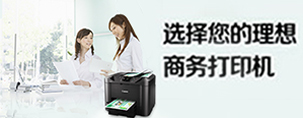
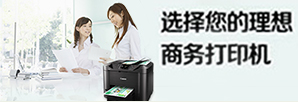
170414周结束

diff --git a/购机送花PC/style/main.min.css b/购机送花PC/style/main.min.css
@@ -1,1 +1,1 @@
-html,body,ul,ol,li,dl,dt,dd{padding:0;margin:0;}ul,ol{list-style:none;}*{box-sizing:border-box;}html,body{width:100%;height:100%;font-family:'Miscrosoft Yahei','微软雅黑';font-size:14px;color:#333;}.wrapper{width:980px;height:auto;margin:0 auto;}.canon-header{background-color:#fff;height:56px;width:100%;position:fixed;z-index:100;top:0;left:0;}.canon-header>div{width:980px;margin:0 auto;}.canon-header>div a{float:left;padding-left:15px;padding-top:12px;}.canon-header>div a img{width:100px;border:0;}.canon-header>div>img{float:right;padding-right:15px;padding-top:15px;width:144px;}.bg{position:absolute;width:100%;height:auto;top:0;left:0;background-image:url('../img/main/bg.png');background-repeat:no-repeat;background-position:center top;}.bg1{background-color:#ffe6e6;height:680px;width:100%;background-image:url(../img/main/bg1.png);background-position:center 445px;background-repeat:repeat-x;}.bg2{background-color:#ffe6e6;height:70px;width:100%;margin-top:310px;background-image:url(../img/main/bg1.png);background-position:center;background-repeat:repeat-x;}.bg3{background-color:#e6e2e1;height:512px;width:100%;margin-top:897px;background-image:url(../img/main/bg1.png);background-position:center;background-repeat:repeat-x;}.bg4{background-color:#ffe6e6;height:515px;width:100%;margin-top:440px;background-image:url(../img/main/bg1.png);background-position:center;background-repeat:repeat-x;}.KV{width:100%;height:690px;margin-top:56px;background-image:url('../img/main/KV.jpg');background-repeat:no-repeat;background-position:center top;}.movie{width:271px;height:119px;margin:713px auto 0 auto;background-image:url('../img/main/movie.png');background-repeat:no-repeat;background-position:center;}.player-frame{width:1190px;height:504px;margin:-570px auto 0 auto;position:relative;z-index:20;background-image:url('../img/main/plaerframe.png');background-repeat:no-repeat;background-position:center;text-align:center;}.player-frame img{width:768px;margin-top:34px;margin-left:8px;cursor:pointer;}.player-frame img.play{width:initial;position:absolute;top:50%;left:50%;margin-top:-64px;margin-left:-70px;}.player-frame img.play:hover{animation:kf-btnplay 1500ms ease infinite;}.word1{width:368px;height:162px;margin:630px auto 0 auto;background-image:url('../img/main/word1.png');background-repeat:no-repeat;background-position:center;}.book{width:162px;height:76px;margin:20px auto 0 auto;background-image:url('../img/main/book.png');background-repeat:no-repeat;background-position:center;}.word2{width:604px;height:292px;margin:100px auto 0 auto;background-image:url('../img/main/word2.png');background-repeat:no-repeat;background-position:center;}.qr{width:170px;height:170px;margin:10px auto 0 auto;background-image:url('../img/main/qr.png');background-repeat:no-repeat;background-position:center;}.word3{width:539px;height:194px;margin:10px auto 0 auto;background-image:url('../img/main/word3.png');background-repeat:no-repeat;background-position:center;}.btn-rule{margin-top:22px;text-align:center;}.product1{margin-top:20px;text-align:center;}.product1 img.first{margin-right:280px;}.product2{margin-top:27px;text-align:center;}.product3{margin-top:27px;text-align:center;}.product3 img.first{margin-right:280px;}.store{width:271px;height:117px;margin:50px auto 0 auto;background-image:url('../img/main/store.png');background-repeat:no-repeat;background-position:center;}.store-link{margin-top:20px;text-align:center;}.store-link a{margin:0 10px;}.store-link img{border:0;}.more{width:544px;height:120px;margin:90px auto 0 auto;background-image:url('../img/main/more.png');background-repeat:no-repeat;background-position:center;}.more-link{margin-top:20px;text-align:center;}.more-link a{margin:0 10px;}.more-link img{border:0;}.copyright{margin-top:-200px;height:56px;line-height:56px;background-color:#e6e2e2;color:#333;text-align:center;}.player-box{position:fixed;z-index:200;width:100%;height:100vh;background-color:rgba(0,0,0,.8);top:0;display:none;}.player-box>div{position:relative;top:50%;left:50%;margin-top:-300px;margin-left:-400px;width:800px;height:600px;padding:40px;background-color:#fff;}.player-box object{width:100%;height:100%;}.player-box .close{position:absolute;right:10px;top:10px;animation:kf-close-out 500ms ease;cursor:pointer;}.player-box .close:hover{animation:kf-close-in 500ms ease;}.player-box .tips{position:absolute;bottom:20px;left:40px;}@keyframes kf-close-in{from{transform:rotate(0deg);}to{transform:rotate(360deg);}}@keyframes kf-close-out{from{transform:rotate(360deg);}to{transform:rotate(0deg);}}@keyframes kf-btnplay{from{transform:scale(1);opacity:1;}to{transform:scale(1.2);opacity:0;}}
+html,body,ul,ol,li,dl,dt,dd{padding:0;margin:0;}ul,ol{list-style:none;}*{box-sizing:border-box;}html,body{width:100%;height:100%;font-family:'Miscrosoft Yahei','微软雅黑';font-size:14px;color:#333;}.wrapper{width:980px;height:auto;margin:0 auto;}.canon-header{background-color:#fff;height:56px;width:100%;position:fixed;z-index:100;top:0;left:0;}.canon-header>div{width:980px;margin:0 auto;}.canon-header>div a{float:left;padding-left:15px;padding-top:12px;}.canon-header>div a img{width:100px;border:0;}.canon-header>div>img{float:right;padding-right:15px;padding-top:15px;width:144px;}.bg{position:absolute;width:100%;height:auto;top:0;left:0;background-image:url('../img/main/bg.png');background-repeat:no-repeat;background-position:center top;}.bg1{background-color:#ffe6e6;height:680px;width:100%;background-image:url(../img/main/bg1.png);background-position:center 445px;background-repeat:repeat-x;}.bg2{background-color:#ffe6e6;height:70px;width:100%;margin-top:310px;background-image:url(../img/main/bg1.png);background-position:center;background-repeat:repeat-x;}.bg3{background-color:#e6e2e1;height:512px;width:100%;margin-top:897px;background-image:url(../img/main/bg1.png);background-position:center;background-repeat:repeat-x;}.bg4{background-color:#ffe6e6;height:515px;width:100%;margin-top:440px;background-image:url(../img/main/bg1.png);background-position:center;background-repeat:repeat-x;}.KV{width:100%;height:690px;margin-top:56px;background-image:url('../img/main/KV.jpg');background-repeat:no-repeat;background-position:center top;}.movie{width:271px;height:119px;margin:713px auto 0 auto;background-image:url('../img/main/movie.png');background-repeat:no-repeat;background-position:center;}.player-frame{width:1190px;height:504px;margin:-570px auto 0 auto;position:relative;z-index:20;background-image:url('../img/main/plaerframe.png');background-repeat:no-repeat;background-position:center;text-align:center;}.player-frame img{width:768px;margin-top:34px;margin-left:8px;cursor:pointer;}.player-frame img.play{width:initial;position:absolute;top:50%;left:50%;margin-top:-64px;margin-left:-70px;}.player-frame img.play:hover{animation:kf-btnplay 1500ms ease infinite;}.word1{width:368px;height:162px;margin:630px auto 0 auto;background-image:url('../img/main/word1.png');background-repeat:no-repeat;background-position:center;}.book{width:162px;height:76px;margin:20px auto 0 auto;background-image:url('../img/main/book.png');background-repeat:no-repeat;background-position:center;}.word2{width:604px;height:292px;margin:100px auto 0 auto;background-image:url('../img/main/word2.png');background-repeat:no-repeat;background-position:center;}.qr{width:170px;height:170px;margin:10px auto 0 auto;background-image:url('../img/main/qr.png');background-repeat:no-repeat;background-position:center;}.word3{width:539px;height:194px;margin:10px auto 0 auto;background-image:url('../img/main/word3.png');background-repeat:no-repeat;background-position:center;}.btn-rule{margin-top:22px;text-align:center;}.btn-rule a{border:0;}.product1{margin-top:20px;text-align:center;}.product1 img.first{margin-right:280px;}.product2{margin-top:27px;text-align:center;}.product3{margin-top:27px;text-align:center;}.product3 img.first{margin-right:280px;}.store{width:271px;height:117px;margin:50px auto 0 auto;background-image:url('../img/main/store.png');background-repeat:no-repeat;background-position:center;}.store-link{margin-top:20px;text-align:center;}.store-link a{margin:0 10px;}.store-link img{border:0;}.more{width:544px;height:120px;margin:90px auto 0 auto;background-image:url('../img/main/more.png');background-repeat:no-repeat;background-position:center;}.more-link{margin-top:20px;text-align:center;}.more-link a{margin:0 10px;}.more-link img{border:0;}.copyright{margin-top:-200px;height:56px;line-height:56px;background-color:#e6e2e2;color:#333;text-align:center;}.player-box{position:fixed;z-index:200;width:100%;height:100vh;background-color:rgba(0,0,0,.8);top:0;display:none;}.player-box>div{position:relative;top:50%;left:50%;margin-top:-300px;margin-left:-400px;width:800px;height:600px;padding:40px;background-color:#fff;}.player-box object{width:100%;height:100%;}.player-box .close{position:absolute;right:10px;top:10px;animation:kf-close-out 500ms ease;cursor:pointer;}.player-box .close:hover{animation:kf-close-in 500ms ease;}.player-box .tips{position:absolute;bottom:20px;left:40px;}@keyframes kf-close-in{from{transform:rotate(0deg);}to{transform:rotate(360deg);}}@keyframes kf-close-out{from{transform:rotate(360deg);}to{transform:rotate(0deg);}}@keyframes kf-btnplay{from{transform:scale(1);opacity:1;}to{transform:scale(1.2);opacity:0;}}

diff --git a/综合页入口PC/style/main.min.css b/综合页入口PC/style/main.min.css
@@ -1,1 +1,1 @@
-html,body{padding:0;margin:0;width:100%;height:100%;font:12px/1.5 '微软雅黑',Arial,Helvetica,SimSun,san-serif;}img{border:0;}.box{width:980px;height:100%;margin:0 auto;}.header{height:80px;padding:0 10px;}.logo{float:left;}.logo img{margin-top:20px;border:0;}.sub-logo{float:right;}.sub-logo img{margin-top:28px;}.banner{height:350px;overflow:hidden;position:relative;}.banner .choice{width:184px;height:170px;position:absolute;right:0;top:0;background-image:url(../img/banner/choice.png);background-size:contain;z-index:5;}.carousel-imgs{position:relative;}.carousel-imgs img{position:absolute;top:0;left:0;display:none;}.carousel-tips{padding:0;margin:0;position:absolute;width:100%;height:75px;bottom:0;list-style:none;z-index:2;}.carousel-tips>li{float:left;width:245px;height:100%;background-position:10px 10px;background-repeat:no-repeat;position:relative;cursor:pointer;}.carousel-tips>li>span{font-size:20px;position:absolute;right:10px;bottom:10px;color:#fff;}.carousel-tips>li>div{height:0;width:100%;overflow:hidden;}.carousel-tips>li>div>div{width:225px;padding:10px 10px 5px 10px;z-index:-1;}.carousel-tips>li>div>div img{width:100%;}.carousel-tips>li .arrow{height:11px;margin-top:-11px;}.carousel-tips>li .tip-mask{height:100%;width:100%;background-color:#000;position:absolute;z-index:3;filter:alpha(opacity=50);-moz-opacity:.5;opacity:.5;display:none;}.tips01{background-color:#10a7ae;background-color:rgba(16,167,174,.9);background-image:url(../img/icon/icon01.png);filter:alpha(opacity=90) \9;}.tips01>div>div{background-color:#10a7ae;}.tips01 .arrow{display:none;}.tips01H{background-color:#10a7ae;background-image:url(../img/icon/icon01.png);}.tips01H>div>div{background-color:#10a7ae;}.tips01H .arrow{background:url(../img/icon/arrow1.png) center no-repeat;}.tips02{background-color:#7b8d42;background-color:rgba(123,141,66,.9);background-image:url(../img/icon/icon02.png);filter:alpha(opacity=90) \9;}.tips02>div>div{background-color:#7b8d42;}.tips02 .arrow{display:none;}.tips02H{background-color:#7b8d42;background-image:url(../img/icon/icon02.png);}.tips02H>div>div{background-color:#7b8d42;}.tips02H .arrow{background:url(../img/icon/arrow2.png) center no-repeat;}.tips03{background-color:#507ea4;background-color:rgba(80,126,164,.9);background-image:url(../img/icon/icon03.png);filter:alpha(opacity=90) \9;}.tips03>div>div{background-color:#507ea4;}.tips03 .arrow{display:none;}.tips03H{background-color:#507ea4;background-image:url(../img/icon/icon03.png);}.tips03H>div>div{background-color:#507ea4;}.tips03H .arrow{background:url(../img/icon/arrow3.png) center no-repeat;}.tips04{background-color:#e09e87;background-color:rgba(224,158,135,.9);background-image:url(../img/icon/icon04.png);filter:alpha(opacity=90) \9;}.tips04>div>div{background-color:#e09e87;}.tips04 .arrow{display:none;}.tips04H{background-color:#e09e87;background-image:url(../img/icon/icon04.png);}.tips04H>div>div{background-color:#e09e87;}.tips04H .arrow{background:url(../img/icon/arrow4.png) center no-repeat;}.nav-banner{margin-top:6px;height:163px;}.nav-banner>div{overflow:hidden;position:relative;}.nav-banner>div .mask{position:absolute;height:100%;width:100%;background-position:10px 10px;background-repeat:no-repeat;}.nav-banner>div .mask>span{font-size:20px;position:absolute;right:10px;bottom:10px;color:#fff;}.nav-banner>div .link-img{padding:10px;}.mask{filter:alpha(opacity=95);}.nav01,.nav02{margin-right:6px;float:left;height:100%;width:275px;}.nav01{background-color:#deb700;}.nav01>.mask{background-color:#deb700;background-color:rgba(222,183,0,.95);background-image:url(../img/icon/icon05.png);}.nav02{background-color:#774ca5;}.nav02>.mask{background-color:#774ca5;background-color:rgba(125,84,168,.95);background-image:url(../img/icon/icon06.png);}.nav03{float:right;width:418px;height:73px;background-color:#0c96c4;}.nav03>.mask{background-color:#0c96c4;background-color:rgba(13,153,203,.95);background-image:url(../img/icon/icon07.png);}.nav04{margin-top:6px;float:right;width:418px;height:84px;background-color:#ee7d02;}.nav04>.mask{background-color:#ee7d02;background-color:rgba(237,124,1,.95);background-image:url(../img/icon/icon08.png);}.footer{text-align:center;height:80px;line-height:80px;clear:both;}
+html,body{padding:0;margin:0;width:100%;height:100%;font:12px/1.5 '微软雅黑',Arial,Helvetica,SimSun,san-serif;}img{border:0;}.box{width:980px;height:100%;margin:0 auto;}.header{height:80px;padding:0 10px;}.logo{float:left;}.logo img{margin-top:20px;border:0;}.sub-logo{float:right;}.sub-logo img{margin-top:28px;}.banner{height:350px;overflow:hidden;position:relative;}.banner .choice{width:184px;height:170px;position:absolute;right:0;top:0;background-image:url(../img/banner/choice.png);background-size:contain;z-index:5;}.carousel-imgs{position:relative;}.carousel-imgs img{position:absolute;top:0;left:0;display:none;}.carousel-tips{padding:0;margin:0;position:absolute;width:100%;height:75px;bottom:0;list-style:none;z-index:2;}.carousel-tips>li{float:left;width:245px;height:100%;background-position:10px 10px;background-repeat:no-repeat;position:relative;cursor:pointer;}.carousel-tips>li>span{font-size:20px;position:absolute;right:10px;bottom:10px;color:#fff;}.carousel-tips>li>div{height:0;width:100%;overflow:hidden;}.carousel-tips>li>div>div{width:225px;padding:10px 10px 5px 10px;z-index:-1;}.carousel-tips>li>div>div img{width:100%;}.carousel-tips>li>div>div img.middle{margin:6px 0;}.carousel-tips>li .arrow{height:11px;margin-top:-11px;}.carousel-tips>li .tip-mask{height:100%;width:100%;background-color:#000;position:absolute;z-index:3;filter:alpha(opacity=50);-moz-opacity:.5;opacity:.5;display:none;}.tips01{background-color:#10a7ae;background-color:rgba(16,167,174,.9);background-image:url(../img/icon/icon01.png);filter:alpha(opacity=90) \9;}.tips01>div>div{background-color:#10a7ae;}.tips01 .arrow{display:none;}.tips01H{background-color:#10a7ae;background-image:url(../img/icon/icon01.png);}.tips01H>div>div{background-color:#10a7ae;}.tips01H .arrow{background:url(../img/icon/arrow1.png) center no-repeat;}.tips02{background-color:#7b8d42;background-color:rgba(123,141,66,.9);background-image:url(../img/icon/icon02.png);filter:alpha(opacity=90) \9;}.tips02>div>div{background-color:#7b8d42;}.tips02 .arrow{display:none;}.tips02H{background-color:#7b8d42;background-image:url(../img/icon/icon02.png);}.tips02H>div>div{background-color:#7b8d42;}.tips02H .arrow{background:url(../img/icon/arrow2.png) center no-repeat;}.tips03{background-color:#507ea4;background-color:rgba(80,126,164,.9);background-image:url(../img/icon/icon03.png);filter:alpha(opacity=90) \9;}.tips03>div>div{background-color:#507ea4;}.tips03 .arrow{display:none;}.tips03H{background-color:#507ea4;background-image:url(../img/icon/icon03.png);}.tips03H>div>div{background-color:#507ea4;}.tips03H .arrow{background:url(../img/icon/arrow3.png) center no-repeat;}.tips04{background-color:#e09e87;background-color:rgba(224,158,135,.9);background-image:url(../img/icon/icon04.png);filter:alpha(opacity=90) \9;}.tips04>div>div{background-color:#e09e87;}.tips04 .arrow{display:none;}.tips04H{background-color:#e09e87;background-image:url(../img/icon/icon04.png);}.tips04H>div>div{background-color:#e09e87;}.tips04H .arrow{background:url(../img/icon/arrow4.png) center no-repeat;}.nav-banner{margin-top:6px;height:163px;}.nav-banner>div{overflow:hidden;position:relative;}.nav-banner>div .mask{position:absolute;height:100%;width:100%;background-position:10px 10px;background-repeat:no-repeat;}.nav-banner>div .mask>span{font-size:20px;position:absolute;right:10px;bottom:10px;color:#fff;}.nav-banner>div .link-img{padding:10px;}.mask{filter:alpha(opacity=95);}.nav01,.nav02{margin-right:6px;float:left;height:100%;width:275px;}.nav01{background-color:#deb700;}.nav01>.mask{background-color:#deb700;background-color:rgba(222,183,0,.95);background-image:url(../img/icon/icon05.png);}.nav02{background-color:#774ca5;}.nav02>.mask{background-color:#774ca5;background-color:rgba(125,84,168,.95);background-image:url(../img/icon/icon06.png);}.nav03{float:right;width:418px;height:73px;background-color:#0c96c4;}.nav03>.mask{background-color:#0c96c4;background-color:rgba(13,153,203,.95);background-image:url(../img/icon/icon07.png);}.nav04{margin-top:6px;float:right;width:418px;height:84px;background-color:#ee7d02;}.nav04>.mask{background-color:#ee7d02;background-color:rgba(237,124,1,.95);background-image:url(../img/icon/icon08.png);}.footer{text-align:center;height:80px;line-height:80px;clear:both;}

diff --git a/综合页入口PC/index.html b/综合页入口PC/index.html
@@ -40,7 +40,7 @@
                     <span>家用打印机</span>
                 </li>
                 <li class="tips02">
-                    <div class="tip-box"><div><a href="http://www.canon.com.cn/products/printer/pixma/eseries/index.html" target="_blank"><img src="img/link/b1.jpg" alt="经济打印" /></a><a href="http://www.canon.com.cn/products/printer/businessijp/index.html" target="_blank"><img src="img/link/b2.jpg" alt="商务打印机" /></a></div></div>
+                    <div class="tip-box"><div><a href="http://www.canon.com.cn/products/printer/pixma/eseries/index.html" target="_blank"><img src="img/link/b1.jpg" alt="经济打印" /></a><a href="http://www.canon.com.cn/products/printer/businessijp/index.html" target="_blank"><img src="img/link/b2.jpg" alt="商务打印机" class="middle" /></a><a href="http://www.canon.com.cn/products/aio/imageclass/smartblackcube/index.html" target="_blank"><img src="img/link/b3.jpg" alt="黑立方" /></a></div></div>
                     <div class="arrow"></div>
                     <div class="tip-mask"></div>
                     <span>商务打印机</span>

diff --git a/综合页入口Mobile/index.html b/综合页入口Mobile/index.html
@@ -58,7 +58,7 @@
                     <span>家用打印机</span>
                 </div></div>
                 <div class="swiper-slide"><div class="tips tips02" data-class="tips02">
-                    <div class="tip-box"><div><a href="http://m.canon.com.cn/products/printer/pixma/eseries/index.html"><img src="img/nav/b1.jpg" alt="经济打印" /></a><a href="http://m.canon.com.cn/products/printer/businessijp/index.html"><img src="img/nav/b2.jpg" alt="商务打印机" /></a></div></div>
+                    <div class="tip-box"><div><a href="http://m.canon.com.cn/products/printer/pixma/eseries/index.html"><img src="img/nav/b1.jpg" alt="经济打印" /></a><a href="http://m.canon.com.cn/products/printer/businessijp/index.html"><img src="img/nav/b2.jpg" alt="商务打印机" /></a><a href="http://m.canon.com.cn/m/products/aio/imageclass/smartblackcube/index.html"><img src="img/nav/b3.jpg" alt="黑立方" /></a></div></div>
                     <div class="arrow"></div>
                     <span>商务打印机</span>
                 </div></div>

diff --git a/购机送花PC/index.html b/购机送花PC/index.html
@@ -2,7 +2,7 @@
 <html>
 <head>
 <meta http-equiv="Content-Type" content="text/html; charset=utf-8"/>
-    <title></title>
+    <title>佳能（中国）</title>
 	<meta charset="utf-8" />
     <link href="style/main.min.css" rel="stylesheet" />
     <link href="//at.alicdn.com/t/font_ll6dnq6y3j6bhuxr.css" rel="stylesheet" />
@@ -36,7 +36,7 @@
             <div class="word2"></div>
             <div class="qr"></div>
             <div class="word3"></div>
-            <div class="btn-rule"><img src="img/main/rulebutton.png" /></div>
+            <div class="btn-rule"><a href="#"><img src="img/main/rulebutton.png" /></a></div>
             <div class="product1">
                 <img src="img/main/proTS6080.png" class="first" />
                 <img src="img/main/proTS8080.png" /></div>

diff --git a/综合页入口PC/style/main.css b/综合页入口PC/style/main.css
@@ -103,6 +103,9 @@ img {
 .carousel-tips > li > div > div img {
   width: 100%;
 }
+.carousel-tips > li > div > div img.middle {
+  margin: 6px 0;
+}
 .carousel-tips > li .arrow {
   height: 11px;
   margin-top: -11px;

diff --git a/综合页入口PC/style/main.less b/综合页入口PC/style/main.less
@@ -118,6 +118,8 @@ img {border:0px;}
                 /*display:none;*/
 
                 img { width:100%;}
+
+                img.middle { margin:6px 0;}
             }
 
         }

diff --git a/购机送花PC/style/main.css b/购机送花PC/style/main.css
@@ -190,6 +190,9 @@ body {
   margin-top: 22px;
   text-align: center;
 }
+.btn-rule a {
+  border: 0;
+}
 .product1 {
   margin-top: 20px;
   text-align: center;

diff --git a/购机送花PC/style/main.less b/购机送花PC/style/main.less
@@ -228,6 +228,10 @@ html, body {
 .btn-rule {
     margin-top:22px;
     text-align:center;
+
+    a {
+        border:0;
+    }
 }
 
 .product1 {
